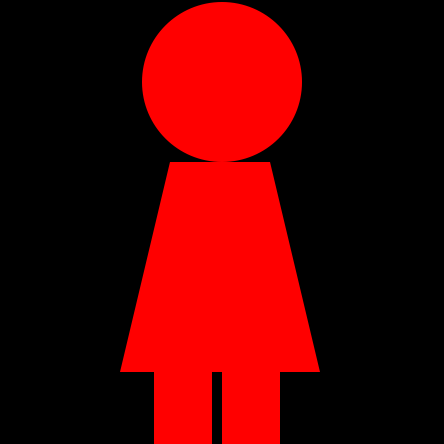
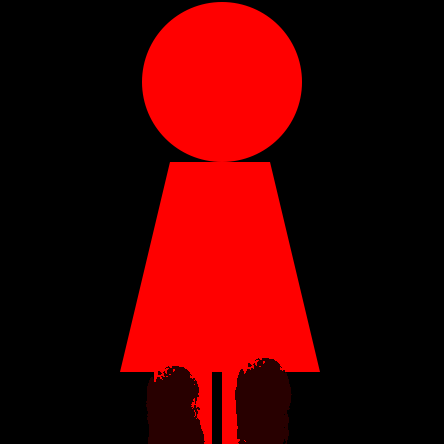
walkman_animation

Changed region(s): [[0.527, 0.7905, 0.6734, 1.0], [0.3221, 0.8198, 0.4685, 1.0]]

diff --git a/field.js b/field.js
@@ -1,3 +1,5 @@
+var walkanimation=0;
+
 function initiate_field(){
     /*　フィールド・キャラクターの初期化処理
     @param なし
@@ -7,10 +9,10 @@ function initiate_field(){
     charaimg1.src="./imgs/character_field1.png";
     charaimg2.src="./imgs/character_field2.png";
     characanvas=document.createElement("canvas");
-    characanvas.width=64, characanvas.height=64
-    characanvas=characanvas.getContext("2d"); //charaimg1は0,0、charaimg2は60,0の位置に描画
-    charaimg1.onload=function(){characanvas.drawImage(charaimg1,0,0,60,60)}
-    charaimg2.onload=function(){characanvas.drawImage(charaimg2,60,0,60,60)}
+    characanvas.width=120, characanvas.height=60;
+    var characanvasctx=characanvas.getContext("2d"); //charaimg1は0,0、charaimg2は60,0の位置に描画
+    charaimg1.onload=function(){characanvasctx.drawImage(charaimg1,0,0,60,60)}
+    charaimg2.onload=function(){characanvasctx.drawImage(charaimg2,60,0,60,60)}
 }
 function fieldMain() {
     const charasize=30; //キャラクターのサイズ
@@ -18,5 +20,6 @@ function fieldMain() {
     @param なし
     @return なし
     */
-    ctx2d.drawImage(characanvas,0,0,60,60,(width-charasize)/2,(height-charasize)/2);
+    walkanimation=(walkanimation+1)%30;
+    ctx2d.drawImage(characanvas,60*Math.floor(walkanimation/15),0,60,60,(width-charasize)/2,(height-charasize)/2,60,60);
 }
